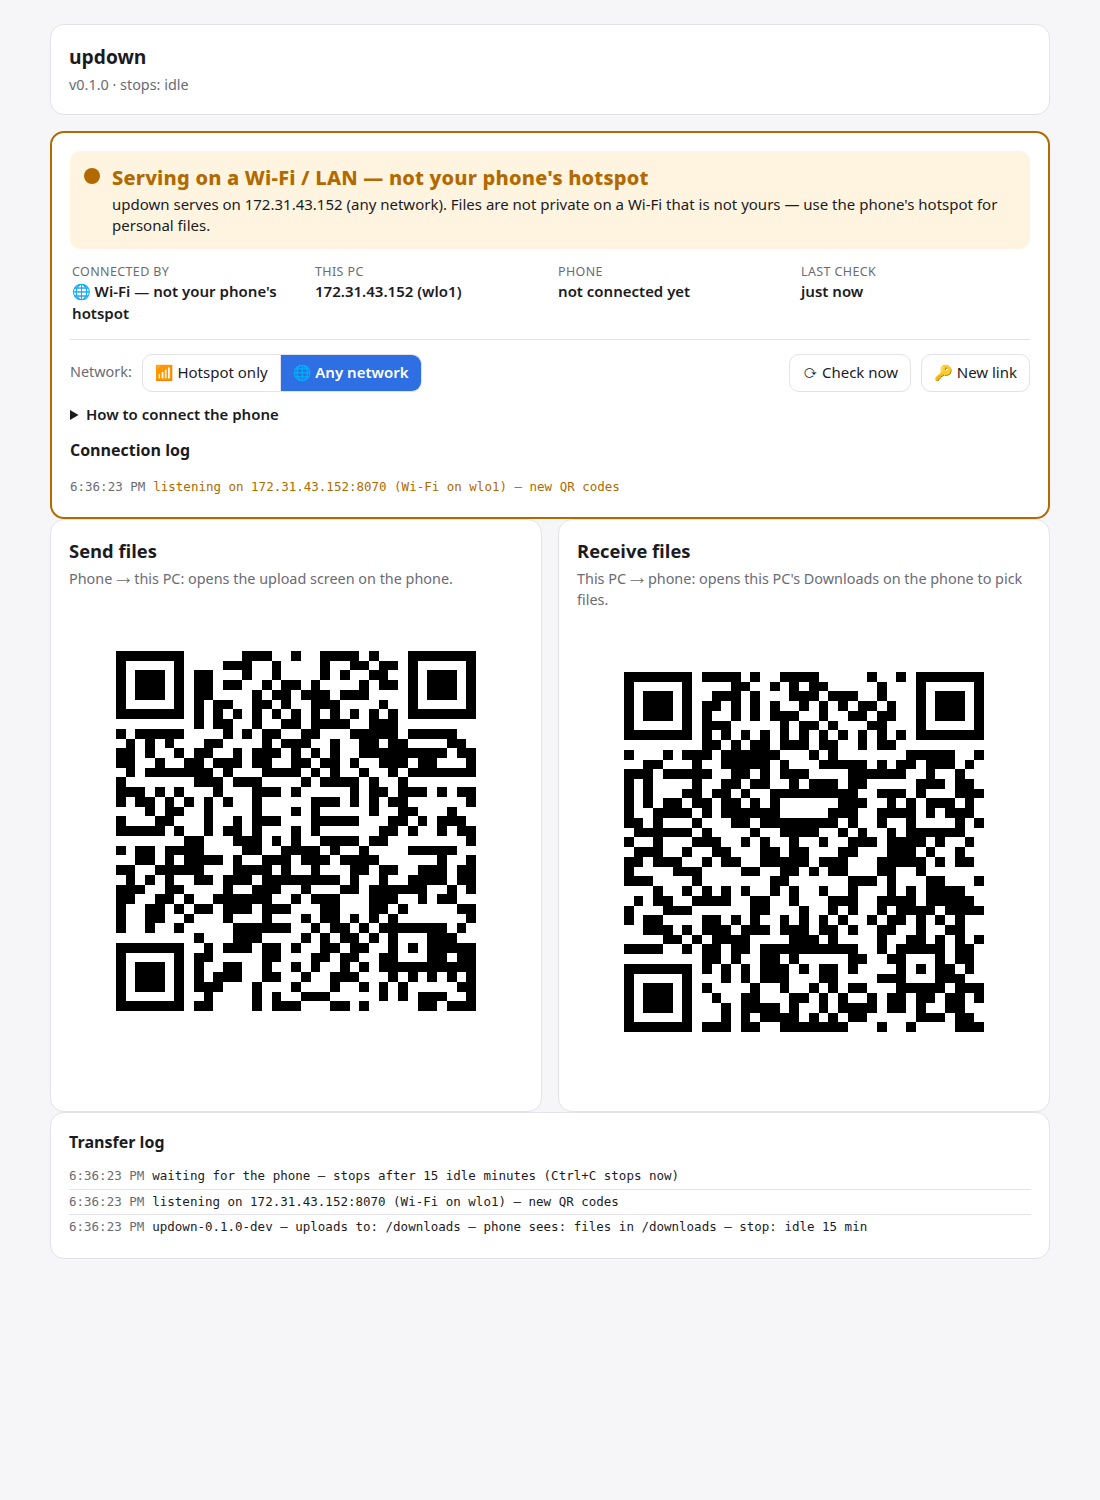
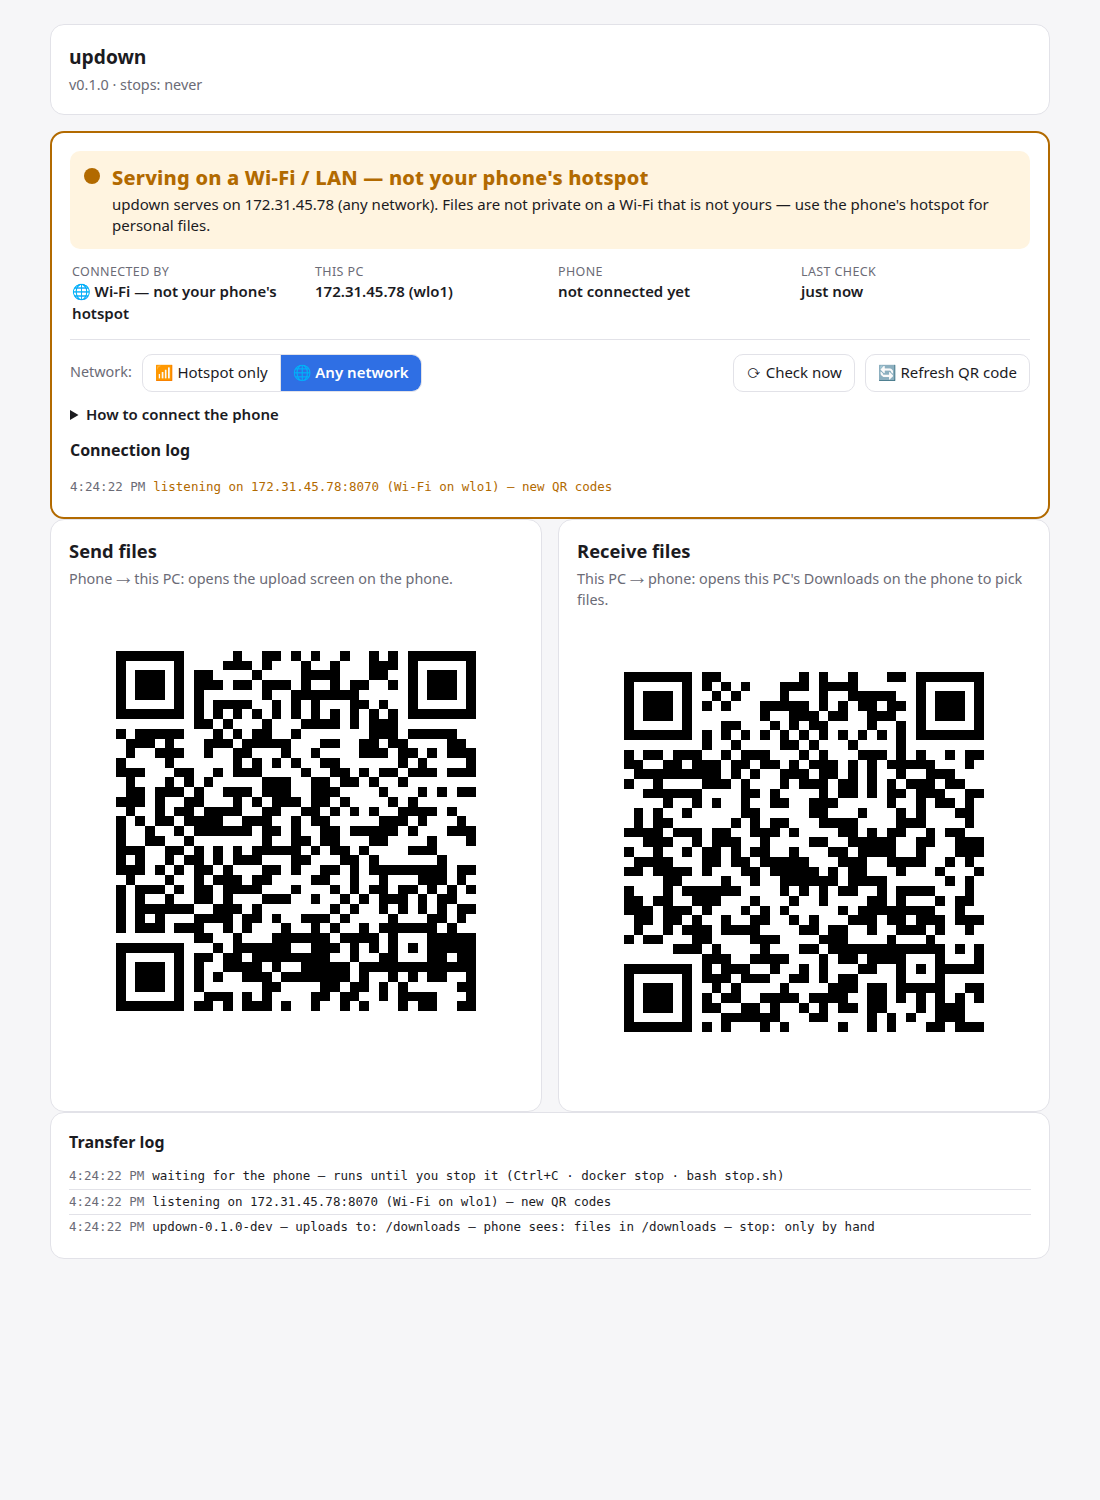
UPDOWN-94 [2.8.2]: the page's "New link" button is "🔄 Refresh QR code" (actions.conf label; same action new_link.py), its log message, agent defaults, README, comments, test messages; screenshots retaken

diff --git a/updown-agent/actions/new_link.py b/updown-agent/actions/new_link.py
@@ -1,8 +1,8 @@
-# new_link.py — the page's "🔑 New link" button ([2.7]): updown hands out a new token, so the page shows NEW QR
+# new_link.py — the page's "🔄 Refresh QR code" button ([2.7]): updown hands out a new token, so the page shows NEW QR
 # codes and the old ones (a photo of the screen, a link sent by mistake) stop working at once.
 # Called by updown-agent (actions.conf) as run(ctx, value); returns the line the page shows.
 
 
 def run(ctx, value=None):
     ctx.updown("/host/api/new-link")
-    return "new link — the page shows new QR codes; the old ones no longer work"
+    return "QR codes refreshed — the page shows new ones; the old ones no longer work"

diff --git a/internal/phonenet/phonenet.go b/internal/phonenet/phonenet.go
@@ -46,7 +46,7 @@ func (w *Watcher) Reset() { w.seen = false }
 
 // Relink keeps the phone's link through a short dropout ([2.8]): when the door closes, its address, port and
 // token are remembered; the SAME address back within Grace → the same port + token, so the page open on the
-// phone carries on. Grace 0 = always a new link. Forget (🔑 New link) drops what was remembered.
+// phone carries on. Grace 0 = always a new link. Forget (🔄 Refresh QR code) drops what was remembered.
 type Relink struct {
 	Grace time.Duration
 	qr    string

diff --git a/updown-agent/agent.py b/updown-agent/agent.py
@@ -37,7 +37,7 @@ ACTIONS_DIR = os.path.join(os.path.dirname(ACTIONS_CONF), "actions")
 # actions.conf missing → these buttons (the shipped file's lines)
 DEFAULT_ACTIONS = """network_mode | 📶 | Network | network_mode.py | yes
 check_now | ⟳ | Check now | check_now.py | yes
-new_link | 🔑 | New link | new_link.py | yes"""
+new_link | 🔄 | Refresh QR code | new_link.py | yes"""
 NAME_RE, FILE_RE = re.compile(r"^[a-z0-9_]+$"), re.compile(r"^[a-z0-9_]+\.py$")
 
 

diff --git a/cmd/updown/main.go b/cmd/updown/main.go
@@ -155,7 +155,7 @@ func run(args []string, stdin io.Reader, stdout, stderr io.Writer) int {
 	var door *http.Server
 	doorPort, doorQR := 0, ""
 	relink := &phonenet.Relink{Grace: time.Duration(cfg.RelinkGraceSec) * time.Second}
-	fresh := false // 🔑 New link: never reuse
+	fresh := false // 🔄 Refresh QR code: never reuse
 	closeDoor := func() {
 		if door != nil {
 			relink.Remember(doorQR, doorPort, srv.Link().Token, time.Now())

diff --git a/README.md b/README.md
@@ -109,7 +109,7 @@ Open it in this PC's browser: **two QR codes** and the live log.
   changes. updown itself opens the phone's door on the hotspot when it appears, moves it when the address
   changes and closes it when the hotspot is gone (the page turns red); each new door = new QR codes.
 - **The buttons** on the page ([2.7], `docs/ui/host_page_buttons_*.png`): 📶 Hotspot only / 🌐 Any network
-  (writes `BIND` into `updown-agent/updown.conf`, restarts updown), ⟳ Check now, 🔑 New link. Each is one line
+  (writes `BIND` into `updown-agent/updown.conf`, restarts updown), ⟳ Check now, 🔄 Refresh QR code. Each is one line
   in `updown-agent/actions.conf` + one file in `updown-agent/actions/` — a new button = a new line + a new file.
 - After 15 idle minutes updown stops and the agent starts it again (same page). A crash is restarted the
   same way. Settings: `updown-agent/updown.conf`.
